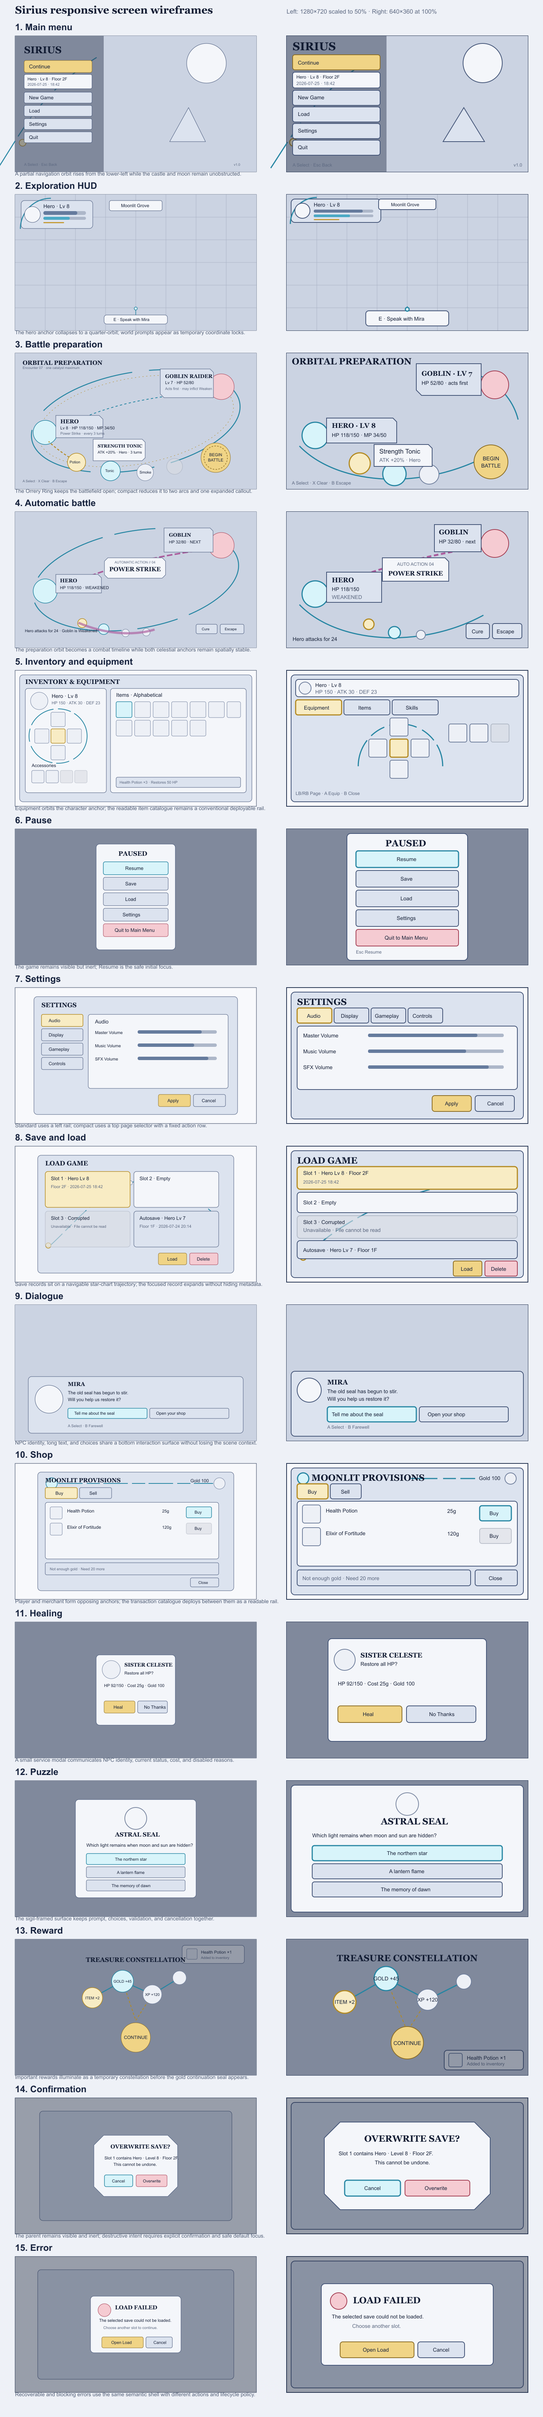
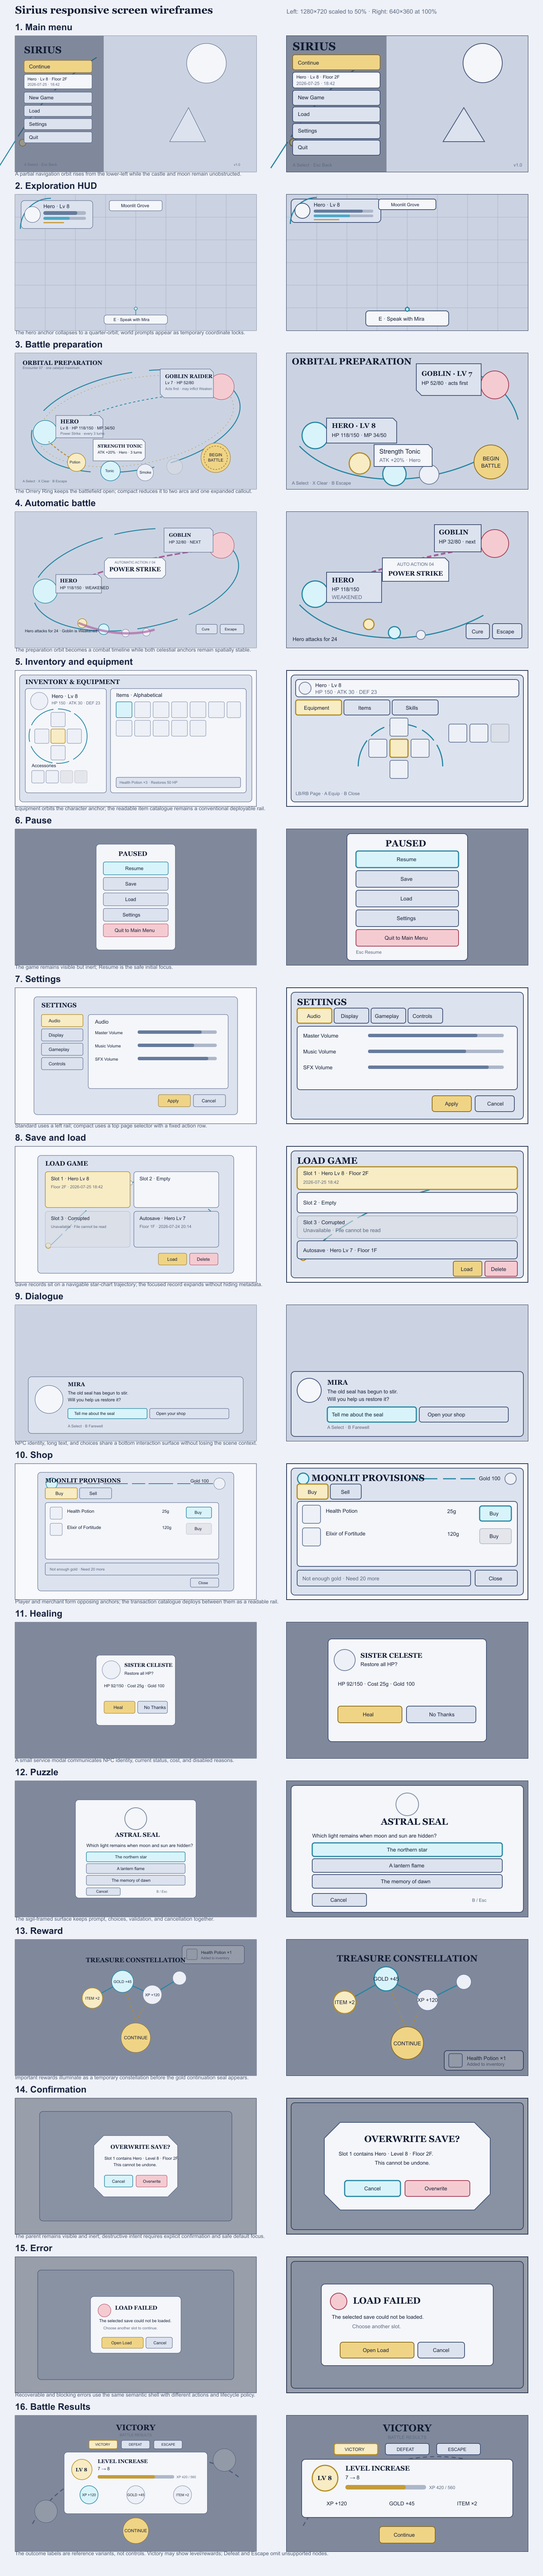
docs: close HPA-373 specification gaps

diff --git a/docs/superpowers/specs/2026-07-25-sirius-ui-visual-language-design.md b/docs/superpowers/specs/2026-07-25-sirius-ui-visual-language-design.md
@@ -1,6 +1,6 @@
 # Sirius UI Visual Language and Screen Design
 
-**Version:** 1.6
+**Version:** 1.7
 **Status:** Review candidate — design approved section by section; written artifact review pending  
 **Linear:** HPA-373  
 **Design decisions approved:** 2026-07-25
@@ -283,6 +283,22 @@ Every screen declares:
 - Cancel behavior
 - Restoration target
 
+| Screen | Parent context | Pause behavior | HUD visibility | Cursor policy | Initial focus | Cancel behavior | Restoration target |
+| --- | --- | --- | --- | --- | --- | --- | --- |
+| Main Menu | Startup or return-to-title | Not applicable | Hidden | Visible | Continue when enabled; otherwise New Game | No-op at the root | Invoking Load/Settings action when returning; otherwise the first enabled primary action |
+| Exploration HUD | Active `Game.tscn` gameplay | World continues | Visible | Gameplay policy; hidden unless pointer interaction is active | No UI focus; gameplay owns input | Open Pause | Player/gameplay input |
+| Battle flow | Exploration encounter | Exploration and behind-screen input stop; battle progression follows the existing controller | Battle HUD only | Visible in Preparation and Results; existing combat policy during Automatic Combat | Begin Battle in Preparation; Continue when Results becomes actionable | Invoke the existing Escape path only where the battle controller permits it | Exploration/gameplay after battle completion |
+| Inventory and equipment | Exploration or Pause | World paused | Gameplay HUD hidden; parent remains inert | Visible | Last valid tab/slot, otherwise the first equipment slot | Close Inventory | Invoking Inventory action or gameplay |
+| Pause | Exploration | World paused | Visible but inert beneath the scrim | Visible | Resume | Resume | Gameplay |
+| Settings | Main Menu or Pause | Inherit parent pause state | Parent remains visible but inert | Visible | Active tab, then its first setting | Close dropdown/key capture first; otherwise discard staged edits and return | Invoking Settings action |
+| Save and Load | Main Menu or Pause | Inherit parent pause state | Parent remains visible but inert | Visible | Last valid slot, otherwise the first enabled slot | Close overwrite/delete confirmation first; otherwise close the screen | Invoking Save or Load action |
+| Dialogue | Exploration or NPC interaction | World input paused | Hidden | Visible | First available choice or Continue | Invoke the existing close/cancel path only when the dialogue controller permits it | Invoking NPC interaction or gameplay |
+| Shop | Dialogue or NPC interaction | World input paused | Hidden | Visible | Last valid Buy/Sell tab and row; otherwise the first actionable row | Close a child confirmation first; otherwise close Shop | Invoking dialogue choice or NPC interaction |
+| Healing | Dialogue or NPC interaction | World input paused | Hidden | Visible | Heal when enabled; otherwise No Thanks | No Thanks | Invoking dialogue choice or NPC interaction |
+| Puzzle | Exploration or NPC interaction | World input paused | Hidden | Visible | First answer or input field | Invoke the existing puzzle cancellation action | Invoking interaction or gameplay |
+| Reward and Battle Results | Producing battle, interaction, or gameplay flow | Toasts do not pause; required acknowledgements pause the parent flow | Toasts preserve the HUD; blocking constellations keep the parent inert and hide competing HUD | Unchanged for toasts; visible for blocking constellations | None for toasts; Continue when a blocking constellation becomes actionable | Required acknowledgements do not dismiss through Cancel | Producer-provided continuation target |
+| Confirmation, warning, and error | Any invoking screen | Inherit parent pause state and block parent input | Parent remains visible but inert | Visible | Safe non-destructive action | Close the topmost ordinary/recoverable layer; destructive and blocking variants follow their explicit safe action | Invoking control, or the parent safe default if it no longer exists |
+
 The topmost screen alone receives UI input. On dismissal, focus returns to the invoking control when it still exists; otherwise it returns to the screen’s safe default.
 
 Domain controllers remain responsible for combat, saves, inventory, dialogue, rewards, and settings. Presentation binds state and invokes existing operations. UI code does not grant rewards, repair saves, or fabricate domain data.
@@ -334,19 +350,18 @@ The focused destination is marked by a luminous navigator on the orbit. Labels a
 
 Continue policy:
 
-- Inspect manual slots 0–2 and autosave slot 3 through save metadata.
-- Ignore missing and metadata-corrupted saves. A metadata-valid save remains eligible but is classified as untimestamped when its timestamp is missing, unparseable, or equal to the `default(DateTime)` / `DateTime.MinValue` sentinel; timestamp state alone does not make it corrupt.
-- Normalize usable timestamps deterministically: values carrying `Z` or an explicit offset convert to UTC, while zone-less values are interpreted as UTC with the same wall-clock fields and must never pass through machine-local time. If one or more metadata-valid saves have usable timestamps, choose the greatest normalized UTC value. Every timestamped save ranks ahead of every untimestamped save.
-- The existing metadata path does not satisfy this rule as-is and must be updated when Continue is implemented. With `RoundtripKind`, a zone-less value remains `DateTimeKind.Unspecified`; it is not automatically interpreted through the host timezone. Explicit-offset inputs may be normalized during parsing, while `DateTime.Compare` compares ticks and ignores `Kind`. Preserve offset-bearing instants with `DateTimeOffset`, apply the explicit UTC policy above to zone-less values, and compare normalized UTC instants rather than raw `DateTime` values.
-- Full loading must tolerate a malformed `SaveTimestamp` the same way metadata extraction does. `ExtractMetadataFromFile` treats a present-but-unparseable `SaveTimestamp` as `DateTime.MinValue` and leaves the save uncorrupted, so this rule classifies such a save as an untimestamped Continue candidate. `SaveManager.LoadFromFile` currently deserializes `SaveTimestamp` as a non-nullable `DateTime` via `System.Text.Json`, which throws `JsonException` on the same unparseable value and fails the load — so Continue would select an eligible save that then cannot load. When Continue is implemented, `LoadFromFile` (or the `SaveData.SaveTimestamp` field) must accept a present-but-unparseable timestamp and fall back to `DateTime.MinValue`, matching `ExtractMetadataFromFile`. This keeps "timestamp state alone does not make it corrupt" true on both paths. A save whose non-timestamp fields fail to deserialize is still treated as corrupt and excluded.
+- Inspect manual slots 0–2 and autosave slot 3 through the typed, normalized save metadata contract owned by HPA-394.
+- Ignore saves that contract marks missing, corrupted, or otherwise unavailable. The UI does not parse raw timestamps, infer compatibility from display strings, or repair metadata.
+- If one or more eligible saves expose a usable normalized timestamp, choose the greatest UTC instant. Every timestamped save ranks ahead of every eligible untimestamped save.
 - Timestamp ties resolve in this order: autosave, manual slot 0, slot 1, slot 2.
-- If every metadata-valid save is untimestamped, choose by the same deterministic order: autosave, manual slot 0, slot 1, slot 2.
+- If every eligible save is untimestamped, choose by the same deterministic order: autosave, manual slot 0, slot 1, slot 2.
 - Show the exact selected save’s player name, level, and floor/location. Show its localized timestamp when usable under the rules above; otherwise show `Time unavailable`.
 - When no valid metadata exists, Continue remains visible but disabled, explains why, and is skipped by focus.
 - Activation performs full load validation.
 - A load failure shows the themed error and opens Load; it never starts a fresh game.
 - Continue does not mutate, repair, or delete invalid saves.
 - Double activation is blocked during transition.
+- Timestamp parsing, normalization, compatibility, and metadata/full-load parity are save-domain concerns owned by HPA-394. HPA-394 blocks HPA-380 and must land before Continue consumes this contract; HPA-373 defines only selection and presentation behavior.
 
 At 640×360, the same order remains. The orbit becomes a single quarter-arc, and the save summary becomes two lines with compact spacing.
 
@@ -503,7 +518,7 @@ Unavailable healing includes a readable reason.
 
 ### 9.11 Puzzle
 
-A medium sigil-framed panel contains title, prompt, answer choices or input, validation feedback, and Cancel. Compact mode fills the safe area and scrolls long content.
+A medium sigil-framed panel contains title, prompt, answer choices or input, validation feedback, a visible Cancel control, and the active device’s cancel hint. Compact mode fills the safe area and scrolls long content.
 
 ### 9.12 Rewards
 

diff --git a/docs/ui/hpa-373/README.md b/docs/ui/hpa-373/README.md
@@ -2,7 +2,7 @@
 
 This package supports the canonical [Sirius UI visual-language specification](../../superpowers/specs/2026-07-25-sirius-ui-visual-language-design.md).
 
-Version 1.6 establishes the **Constellation Orrery** direction: a battlefield-first ancient star-machine with anime interstellar telemetry, orbital navigation, anchored callouts, catalogue rails, decisive gold seals, and a readability-first responsive type hierarchy.
+Version 1.7 establishes the **Constellation Orrery** direction: a battlefield-first ancient star-machine with anime interstellar telemetry, orbital navigation, anchored callouts, catalogue rails, decisive gold seals, and a readability-first responsive type hierarchy.
 
 ## Deliverables
 

diff --git a/docs/ui/hpa-373/wireframes/README.md b/docs/ui/hpa-373/wireframes/README.md
@@ -24,6 +24,7 @@ The sheet covers:
 13. Reward
 14. Confirmation
 15. Error
+16. Battle Results
 
 These are low-fidelity composition and hierarchy references. Exact tokens, state behavior, component geometry, lifecycle rules, and responsive policies are normative in the canonical HPA-373 specification.
 
